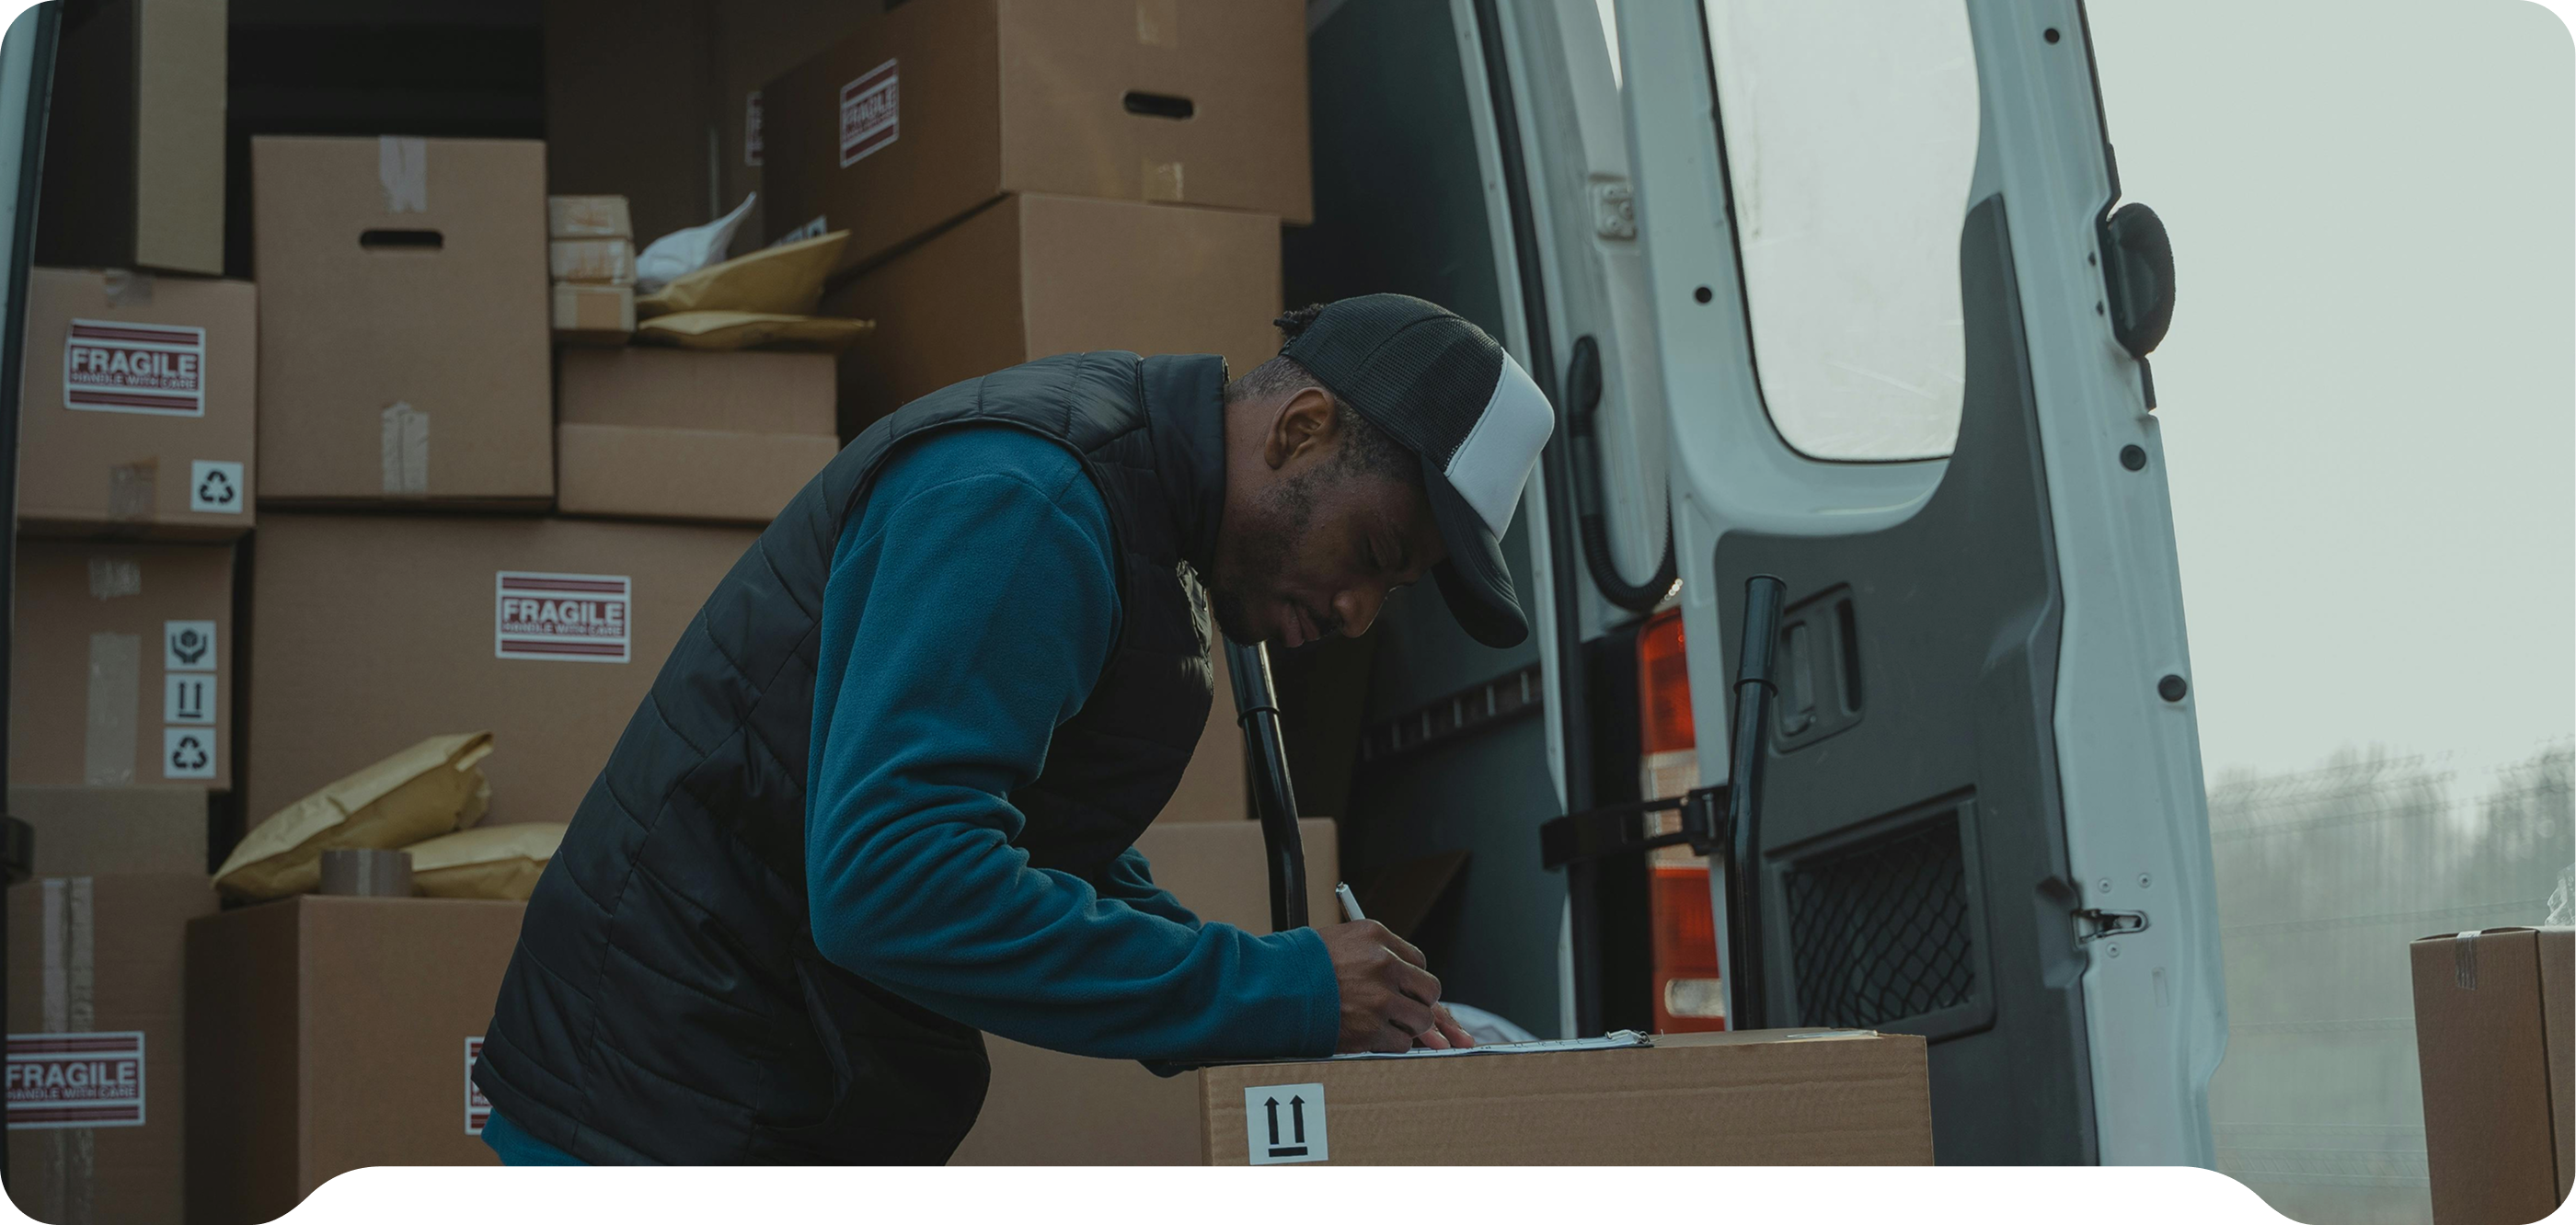
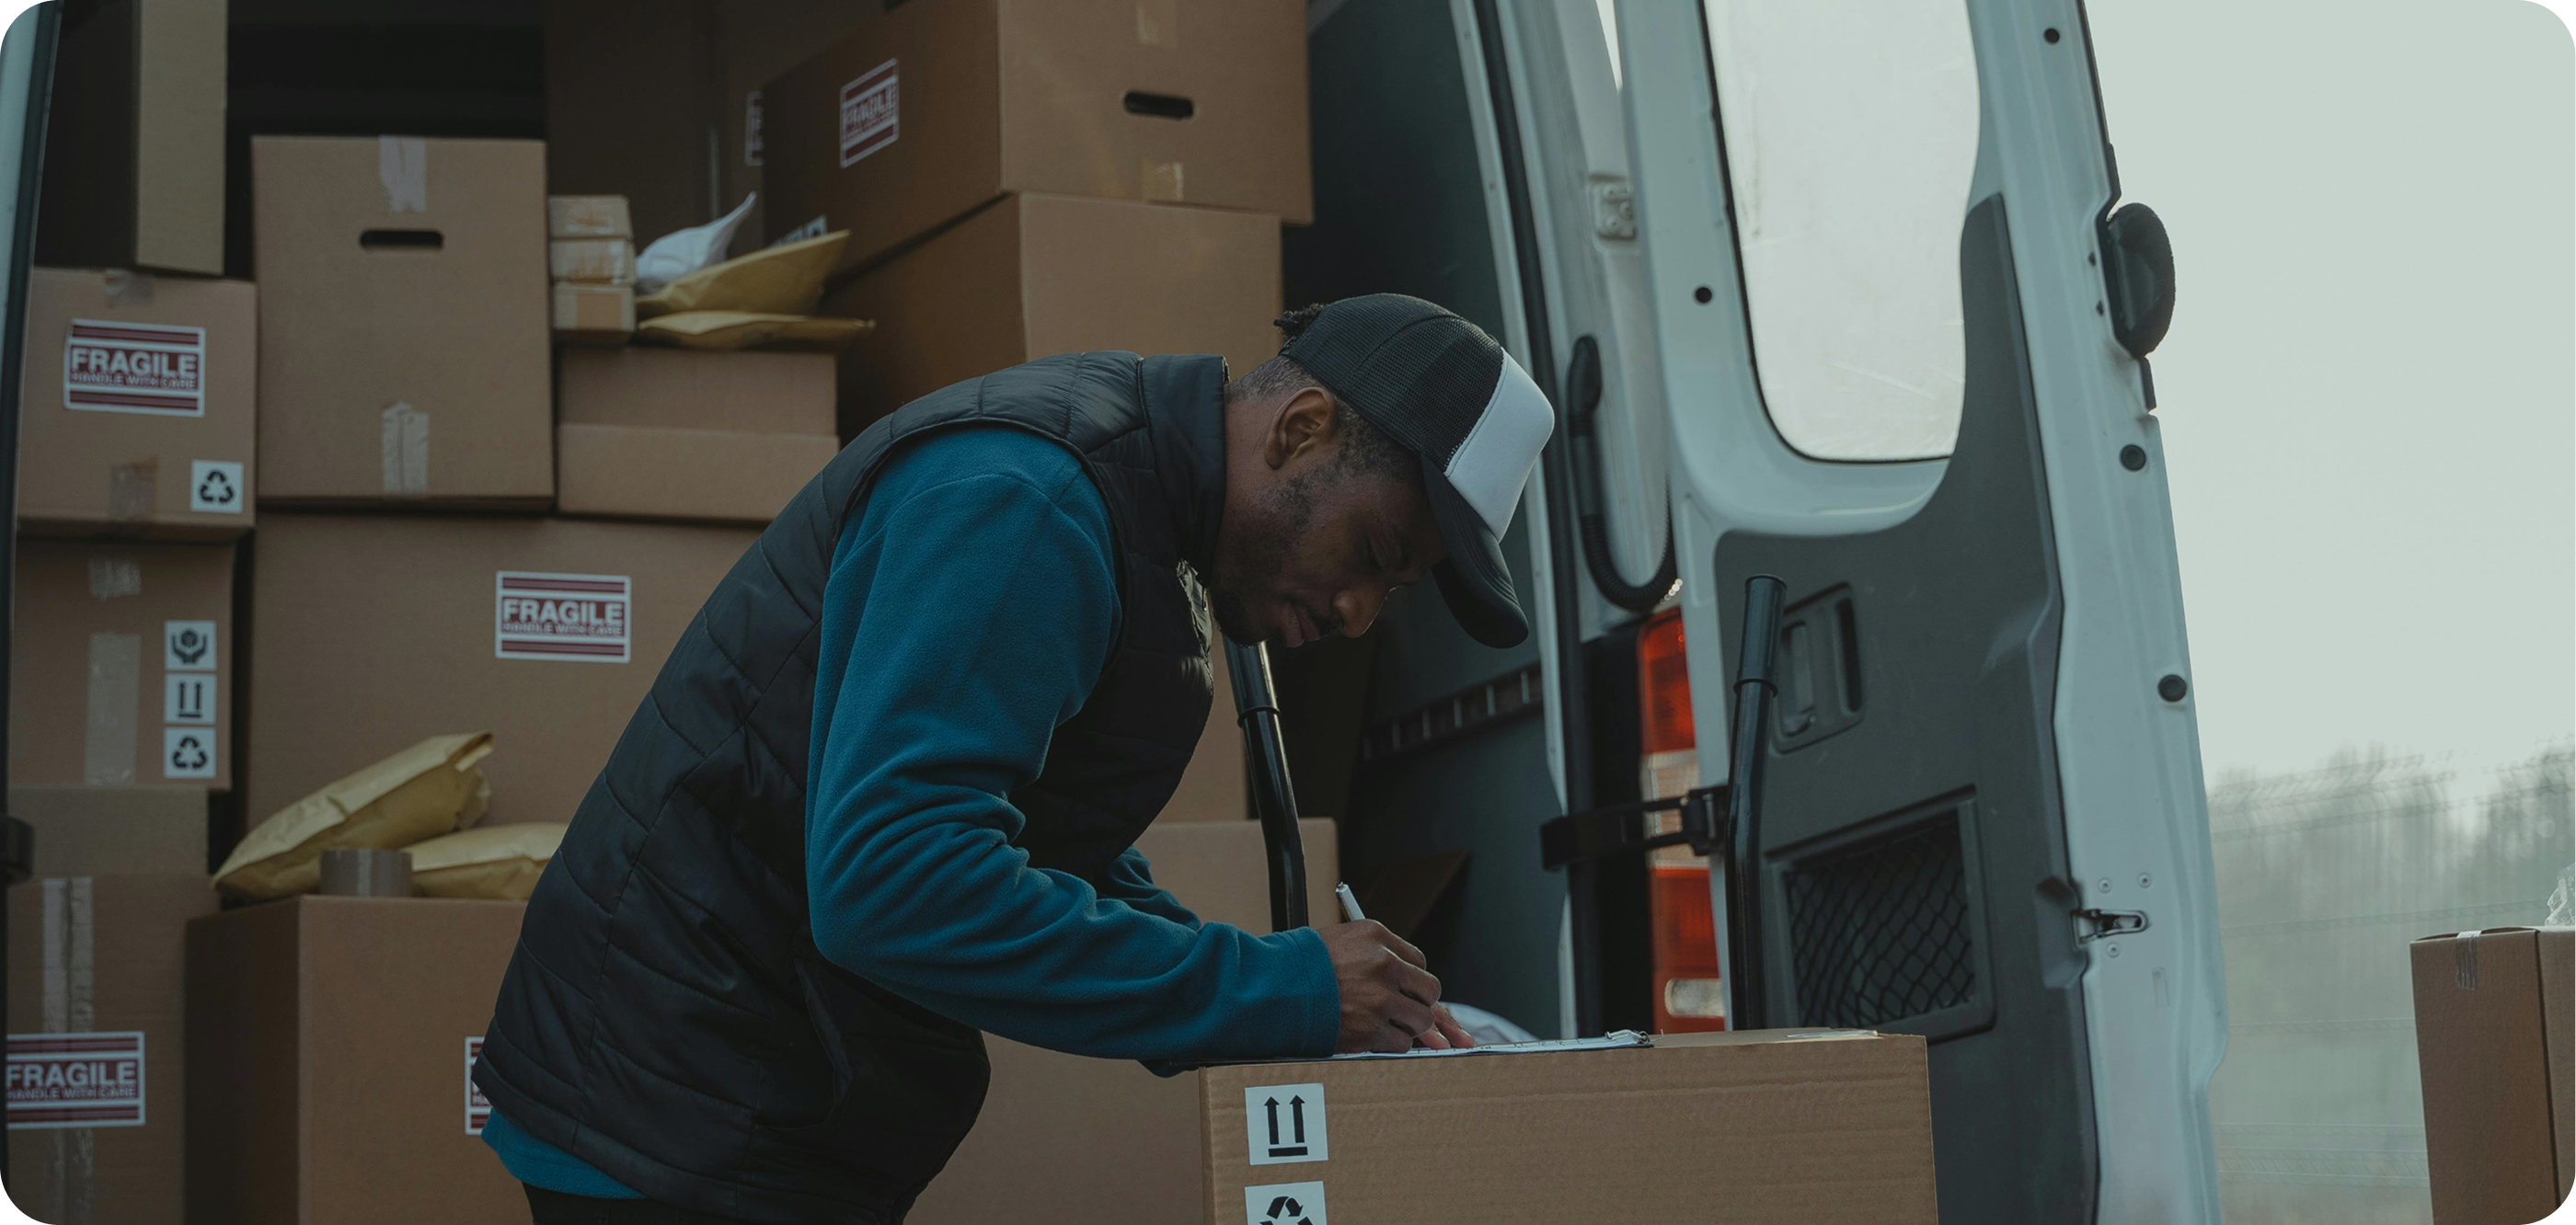
svg fix

Changed region(s): [[0.0932, 0.9542, 0.9011, 1.0]]

diff --git a/src/styles/website.css b/src/styles/website.css
@@ -55,18 +55,30 @@ input[type="date"] {
 }
 
 .skeleton {
-  animation: skeleton-flicker 1.2s ease-in-out infinite;
+  position: relative;
+  overflow: hidden;
+  background: #f1f1f1; 
 }
 
-@keyframes skeleton-flicker {
-  0%, 100% {
-    opacity: 0.2;
-  }
-  50% {
-    opacity: 1;
-  }
+.skeleton::after {
+  content: "";
+  position: absolute;
+  inset: 0;
+  transform: translateX(-100%);
+  background: linear-gradient(
+    90deg,
+    transparent,
+    rgb(223, 223, 223),
+    transparent
+  );
+  animation: skeleton-loading 1.2s infinite;
 }
 
+@keyframes skeleton-loading {
+  100% {
+    transform: translateX(100%);
+  }
+}
 
 ::view-transition-old(root) {
   animation: fade-out 0.4s ease forwards;
@@ -74,16 +86,35 @@ input[type="date"] {
 
 ::view-transition-new(root) {
   animation: fade-in 0.4s ease forwards;
-  animation-delay: 0.4s; 
-  opacity: 0; 
+  animation-delay: 0.4s;
+  opacity: 0;
 }
 
 @keyframes fade-out {
-  from { opacity: 1; }
-  to { opacity: 0; }
+  from {
+    opacity: 1;
+  }
+  to {
+    opacity: 0;
+  }
 }
 
 @keyframes fade-in {
-  from { opacity: 0; }
-  to { opacity: 1; }
+  from {
+    opacity: 0;
+  }
+  to {
+    opacity: 1;
+  }
+}
+
+.subtract {
+  clip-path: shape(
+    nonzero from 6.33% 0.58%,
+    curve to 0.07% 99.5% with 3.03% 1.89% / 2.76% 95%,
+    curve to 99.78% 99.5% with 5% 100% / 95% 100%,
+    curve to 93.58% 0.58% with 97.14% 95% / 96.78% 0.58%,
+    curve to 6.33% 0.58% with 90.3% 0.58% / 9.65% 0.58%,
+    close
+  );
 }

diff --git a/src/components/blogs/BlogsDetail.jsx b/src/components/blogs/BlogsDetail.jsx
@@ -86,28 +86,27 @@ const BlogsDetail = ({ post, prevSlug, nextSlug, latestPosts = [] }) => {
 
     return (
         <>
-            <div ref={container} className="w-full p-3 md:p-5 center relative text-center">
-                <div className="  max_width_layout absolute bottom-20 md:bottom-32 flex flex-col justify-center items-center text-[#F9F6F3]">
-                    <div className=" hero_text opacity-0 flex flex-col justify-center items-center">
-                        <h1 className=' hero_title  text-4xl md:text-7xl max-sm:w-[90vw]  font-semibold'>{post?.title}</h1>
-                    </div>
-                    <div className=" hero_text opacity-0 w-fit mt-5  flex gap-x-5 h-fit  ">
-                        <div className="flex items-center gap-x-2">
-                            <img src="/icons/white_person.svg" className='w-5 icon_anim opacity-0' alt="loading" />
-                            <p className=' hero_desc text-base md:text-lg'>{post?.author || "Bro's Moving"}</p>
+            <div ref={container} className="w-full p-3 md:p-5 center h-screen relative text-center">
+                <div className={` ${isLoaded ? "" : "skeleton"} w-full h-full overflow-hidden relative  text-center center rounded-2xl md:rounded-4xl`}>
+                    <div className="  max_width_layout absolute bottom-20 z-10 flex flex-col justify-center items-center text-[#F9F6F3]">
+                        <div className=" hero_text opacity-0 flex flex-col justify-center items-center">
+                            <h1 className=' hero_title  text-4xl md:text-7xl max-sm:w-[90vw]  font-semibold'>{post?.title}</h1>
                         </div>
-                        <div className="w-[1px] bg-white h-8 icon_anim opacity-0"></div>
-                        <div className="flex items-center gap-x-2">
-                            <img src="/icons/white_calender.svg" className='w-5 icon_anim opacity-0' alt="loading" />
-                            <p className=' hero_desc text-base md:text-lg'>{formatPostDate(post?.date)}</p>
+                        <div className=" hero_text opacity-0 w-fit mt-5  flex gap-x-5 h-fit  ">
+                            <div className="flex items-center gap-x-2">
+                                <img src="/icons/white_person.svg" className='w-5 icon_anim opacity-0' alt="loading" />
+                                <p className=' hero_desc text-base md:text-lg'>{post?.author || "Bro's Moving"}</p>
+                            </div>
+                            <div className="w-[1px] bg-white h-8 icon_anim opacity-0"></div>
+                            <div className="flex items-center gap-x-2">
+                                <img src="/icons/white_calender.svg" className='w-5 icon_anim opacity-0' alt="loading" />
+                                <p className=' hero_desc text-base md:text-lg'>{formatPostDate(post?.date)}</p>
+                            </div>
                         </div>
                     </div>
-                </div>
-                <Image width={1920} height={1080} onLoad={() => setDeskLoaded(true)} className={` max-sm:hidden w-full opacity-0 transition-all duration-300 ${isLoaded ? "opacity-100" : "opacity-0"}`} src={heroImgUrl} unoptimized alt={post?.title ?? ""} />
-                <Image height={1920} width={1080} onLoad={() => setMobLoaded(true)} className={` md:hidden w-full opacity-0 transition-all duration-300 ${isLoaded ? "opacity-100" : "opacity-0"}`} src={heroMobImgUrl} unoptimized alt={post?.title ?? ""} />
-                <div className={`w-full absolute  pointer-events-none transition-all  skeleton duration-300 inset-0 p-3 md:p-5 ${isLoaded ? "opacity-0" : "opacity-100"} `}>
-                    <img className='w-full max-sm:hidden' src="/images/page_hero_skeleton.png" alt="loading" />
-                    <img className='w-full md:hidden' src="/images/mob_page_hero_skeleton.png" alt="loading" />
+                    <Image fill onLoad={() => setDeskLoaded(true)} className={` max-sm:hidden w-full opacity-0 transition-all duration-300 ${isLoaded ? "opacity-100!" : "opacity-0"}`} src={heroImgUrl} unoptimized alt={post?.title ?? ""} />
+                    <Image fill onLoad={() => setMobLoaded(true)} className={` md:hidden w-full opacity-0 transition-all duration-300 ${isLoaded ? "opacity-100!" : "opacity-0"}`} src={heroMobImgUrl} unoptimized alt={post?.title ?? ""} />
+                    <div className="subtract absolute z-10 pointer-events-none w-[80vw] h-10 bg-white bottom-[-1px] left-1/2 -translate-x-1/2"></div>
                 </div>
             </div>
 
@@ -142,7 +141,7 @@ const BlogsDetail = ({ post, prevSlug, nextSlug, latestPosts = [] }) => {
             </div>
 
             <div className=" max_width_layout md:w-[60%] md:px-0!  padding py-0! mx-auto flex items-center justify-between mt-5 md:mt-10 mb-5 md:mb-24">
-                <Link  href={prevSlug ? `/blog/${prevSlug}` : '/blogs'} className=' group hover:pl-2 pl-0 transition-all duration-300 flex w-fit items-center gap-x-0 hover:gap-x-2 font-medium border border-black/30 leading-none   rounded-full px-4 h-10  md:h-11'>
+                <Link href={prevSlug ? `/blog/${prevSlug}` : '/blogs'} className=' group hover:pl-2 pl-0 transition-all duration-300 flex w-fit items-center gap-x-0 hover:gap-x-2 font-medium border border-black/30 leading-none   rounded-full px-4 h-10  md:h-11'>
                     <div className={`group-hover:scale-100 group-hover:p-2.5 transition-all duration-300 scale-0  p-0 overflow-hidden bg-[#090A0C] rounded-full  `}>
                         <img
                             src="/icons/arrow-right.svg"

diff --git a/src/components/common/PageHero.jsx b/src/components/common/PageHero.jsx
@@ -67,16 +67,15 @@ const PageHero = ({ title, description, image, mobImage }) => {
 
     return (
         <>
-            <div ref={container} className="w-full p-3 md:p-5 center relative md:text-center">
-                <div className=" hero_text max_width_layout opacity-0  flex flex-col items-center absolute z-20 bottom-20 md:bottom-32 text-[#F9F6F3]">
-                    <h1 className=' hero_title  text-4xl md:text-7xl max-sm:w-[90vw]  font-semibold'>{title}</h1>
-                    <p className=' hero_desc mt-2 leading-tight max-sm:w-[90vw]  text-base md:text-lg '>{description}</p>
-                </div>
-                <Image width={1920} height={1080} onLoadingComplete={() => setDeskLoaded(true)} className={` max-sm:hidden w-full opacity-0 relative z-10 transition-all duration-300 ${isLoaded ? "opacity-100" : "opacity-0"}`} src={image} alt="loading" />
-                <Image height={1920} width={1080} onLoadingComplete={() => setMobLoaded(true)} className={` md:hidden w-full opacity-0 relative z-10 transition-all duration-300 ${isLoaded ? "opacity-100" : "opacity-0"}`} src={mobImage} alt="loading" />
-                <div className={`w-full absolute  pointer-events-none transition-all  skeleton duration-300 inset-0 p-3 md:p-5 ${isLoaded ? "opacity-0" : "opacity-100"} `}>
-                    <img className='w-full max-sm:hidden' src="/images/page_hero_skeleton.png" alt="loading" />
-                    <img className='w-full md:hidden' src="/images/mob_page_hero_skeleton.png" alt="loading" />
+            <div ref={container} className="w-full p-3 md:p-5 center h-screen relative text-center">
+                <div className={` ${isLoaded ? "" : "skeleton"} w-full h-full overflow-hidden relative  text-center center rounded-2xl md:rounded-4xl`}>
+                    <div className=" hero_text max_width_layout opacity-0  flex flex-col items-center absolute z-20 bottom-20 md:bottom-32 text-[#F9F6F3]">
+                        <h1 className=' hero_title  text-4xl md:text-7xl max-sm:w-[90vw]  font-semibold'>{title}</h1>
+                        <p className=' hero_desc mt-2 leading-tight max-sm:w-[90vw]  text-base md:text-lg '>{description}</p>
+                    </div>
+                    <Image fill onLoad={() => setDeskLoaded(true)} className={` max-sm:hidden cover w-full opacity-0 relative z-10 transition-all duration-300 ${isLoaded ? "opacity-100!" : "opacity-0"}`} src={image} alt="loading" />
+                    <Image fill onLoad={() => setMobLoaded(true)} className={` md:hidden cover w-full opacity-0 relative z-10 transition-all duration-300 ${isLoaded ? "opacity-100!" : "opacity-0"}`} src={mobImage} alt="loading" />
+                    <div className="subtract absolute z-10 pointer-events-none w-[80vw] h-10 bg-white bottom-[-1px] left-1/2 -translate-x-1/2"></div>
                 </div>
             </div>
         </>

diff --git a/src/components/blogs/BlogsGrid.jsx b/src/components/blogs/BlogsGrid.jsx
@@ -4,6 +4,7 @@ import { Link } from 'next-view-transitions';
 import React, { useState } from 'react'
 import { urlFor } from '@/sanity/lib/image';
 import { formatPostDate } from '@/components/utils/formatPostDate';
+import Image from 'next/image';
 
 const SERVICES = [
     "Residential Moving",
@@ -84,12 +85,17 @@ const BlogsGrid = ({ posts = [] }) => {
                 </div>
                 <div className=" max_width_layout w-full grid-cols-2 grid md:grid-cols-3 gap-3 md:gap-8 gap-y-5 md:gap-y-12 pt-5 md:pt-10">
                     {posts.map((blog, i) => (
-                        <Link href={`/blog/${blog.slug}`} key={blog._id ?? i} className=" group space-y-3 md:space-y-5 ">
-                            <img
-                                src={blog?.coverImage ? urlFor(blog.coverImage).width(1200).height(900).fit('crop').url() : "/images/blogpage/blog1.png"}
-                                className='w-full group-hover:scale-95 transition-all duration-300'
-                                alt={blog?.title ?? "Blog image"}
-                            />
+                        <Link href={`/blog/${blog.slug}`} key={blog._id ?? i} className=" group relative space-y-3 md:space-y-5 ">
+                            <div className=" aspect-square group-hover:scale-95 transition-all duration-300 rounded-2xl overflow-hidden relative w-full">
+                                <div className="subtract absolute z-10 pointer-events-none w-[65%] h-5 bg-white bottom-[-1px] left-1/2 -translate-x-1/2"></div>
+                                <Image
+                                    fill
+                                    unoptimized
+                                    src={blog?.coverImage ? urlFor(blog.coverImage).url() : "/images/blogpage/blog1.png"}
+                                    className='w-full cover'
+                                    alt={blog?.title ?? "Blog image"}
+                                />
+                            </div>
                             <div className=" max-sm:space-y-1 md:flex w-full justify-between">
                                 <div className="flex items-center gap-x-2">
                                     <img src="/icons/form_person.svg" className='w-5' alt="loading" />

diff --git a/src/styles/globals.css b/src/styles/globals.css
@@ -7,7 +7,7 @@
 body {
   overflow-x: hidden;
   width: 100%;
-  color: #090A0C;
+  color: #090a0c;
 }
 body::-webkit-scrollbar {
   display: none;
@@ -22,7 +22,7 @@ body::-webkit-scrollbar {
   background: #f1f1f1;
 }
 .custom_scroller::-webkit-scrollbar-thumb {
-  background: #F5344F;
+  background: #f5344f;
   border-radius: 2rem;
   cursor: pointer;
 }
@@ -38,16 +38,20 @@ button {
 .padding {
   padding-inline: 1rem;
   padding-block: 2.5rem;
-
 }
 @media (min-width: 750px) {
   .padding {
     padding-inline: 6rem;
-  padding-block: 6rem;
+    padding-block: 6rem;
   }
 }
 .cover {
   width: 100%;
   height: 100%;
   object-fit: cover;
+}
+
+.h-screen {
+  height: 100vh !important;
+  height: 100svh !important;
 }

diff --git a/src/components/home/Hero.jsx b/src/components/home/Hero.jsx
@@ -103,8 +103,8 @@ const Hero = () => {
     return (
         <>
             {/* <Introloader /> */}
-            <div ref={container} className="w-full  h-[100svh]  relative p-2 md:p-5">
-                <div style={{ clipPath: "polygon(0% 100%, 100% 100%, 100% 100%, 0% 100%)" }} className="vide_pren w-full h-full overflow-hidden rounded-2xl md:rounded-[36px]">
+            <div ref={container} className="w-full  h-screen  relative p-2 md:p-5">
+                <div style={{ clipPath: "polygon(0% 100%, 100% 100%, 100% 100%, 0% 100%)" }} className="vide_pren w-full h-full overflow-hidden rounded-2xl md:rounded-4xl">
                     <video poster='/images/hero_video_poster_.webp' loop autoPlay muted playsInline src="/videos/hero_video.mp4" className={` hero_video scale-[3] cover brightness-95`} alt="loading" />
                 </div>
                 <div className="w-full padding absolute  h-full  inset-0">
@@ -141,6 +141,7 @@ const Hero = () => {
                         </div>
                     </div>
                 </div>
+                <div className="subtract absolute z-10 pointer-events-none w-[80vw] h-10 bg-white bottom-[calc(0.5rem-1px)] md:bottom-[calc(1.25rem-1px)] left-1/2 -translate-x-1/2"></div>
             </div>
         </>
     )

diff --git a/src/components/common/Header.jsx b/src/components/common/Header.jsx
@@ -96,7 +96,7 @@ const Header = () => {
   return (
     <>
 
-      <div className="mobile_menu md:hidden fixed top-0 left-full w-full h-[100svh] bg-white z-500">
+      <div className="mobile_menu md:hidden fixed top-0 left-full w-full h-screen bg-white z-500">
         <button onClick={() => setIsMobileMenu(false)} className='p-3 text-white rounded-full md:hidden absolute top-5 right-5 bg-[#F5344F]' ><RiCloseLine size={16} /></button>
         <nav className=" w-full h-full flex flex-col uppercase text-3xl  font-medium gap-y-5  justify-center items-center gap-x-10">
           {navLinks.map((link, i) => {